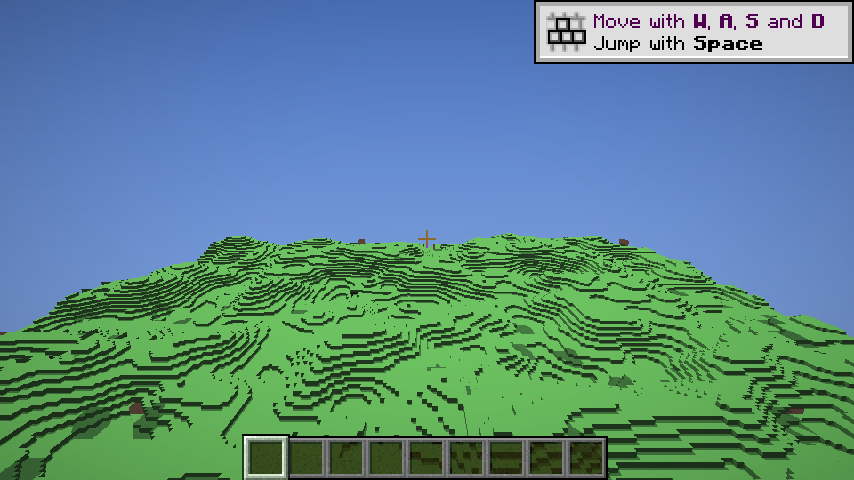
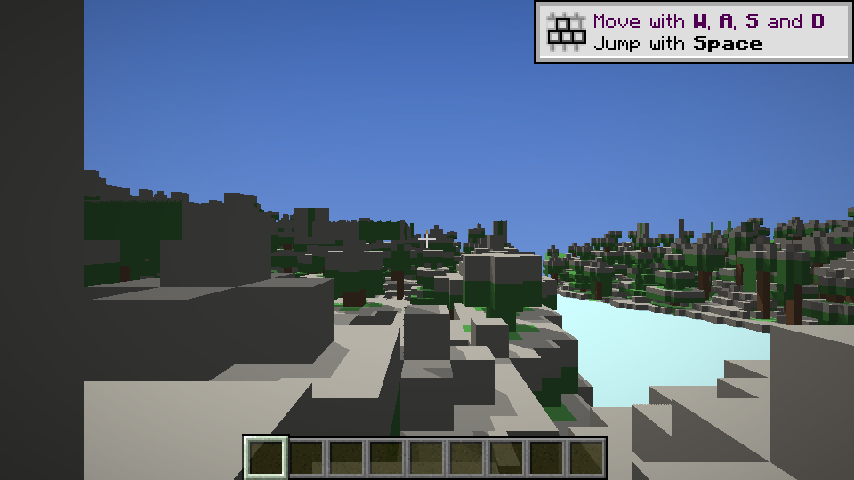
Ray trace real client chunks with the player camera

diff --git a/mod/src/client/java/dev/bricktrace/client/rt/BrickTraceWorldCapture.java b/mod/src/client/java/dev/bricktrace/client/rt/BrickTraceWorldCapture.java
@@ -1,0 +1,99 @@
+package dev.bricktrace.client.rt;
+
+import it.unimi.dsi.fastutil.ints.IntArrayList;
+import net.minecraft.client.multiplayer.ClientLevel;
+import net.minecraft.core.registries.BuiltInRegistries;
+import net.minecraft.world.level.block.state.BlockState;
+import net.minecraft.world.level.chunk.ChunkAccess;
+import net.minecraft.world.level.chunk.LevelChunk;
+import net.minecraft.world.level.chunk.LevelChunkSection;
+import net.minecraft.world.level.chunk.status.ChunkStatus;
+
+/** Converts the loaded client chunks around the player into BrickTrace's 16³ section voxel format. */
+public final class BrickTraceWorldCapture {
+    public static final int RADIUS_CHUNKS = 6;
+
+    public record Snapshot(int[] origins, int[] voxels) {
+        public int sectionCount() {
+            return origins.length / 3;
+        }
+    }
+
+    private BrickTraceWorldCapture() {
+    }
+
+    public static Snapshot capture(ClientLevel level, int centerChunkX, int centerChunkZ) {
+        final IntArrayList origins = new IntArrayList();
+        final IntArrayList voxels = new IntArrayList();
+        final int minSectionY = level.getMinSectionY();
+
+        for (int cz = centerChunkZ - RADIUS_CHUNKS; cz <= centerChunkZ + RADIUS_CHUNKS; ++cz) {
+            for (int cx = centerChunkX - RADIUS_CHUNKS; cx <= centerChunkX + RADIUS_CHUNKS; ++cx) {
+                final ChunkAccess access = level.getChunkSource()
+                        .getChunk(cx, cz, ChunkStatus.FULL, false);
+                if (!(access instanceof LevelChunk chunk)) {
+                    continue;
+                }
+
+                final LevelChunkSection[] sections = chunk.getSections();
+                for (int index = 0; index < sections.length; ++index) {
+                    final LevelChunkSection section = sections[index];
+                    if (section == null || section.hasOnlyAir()) {
+                        continue;
+                    }
+
+                    origins.add(cx * 16);
+                    origins.add((minSectionY + index) * 16);
+                    origins.add(cz * 16);
+
+                    for (int y = 0; y < 16; ++y) {
+                        for (int z = 0; z < 16; ++z) {
+                            for (int x = 0; x < 16; ++x) {
+                                voxels.add(encode(section.getBlockState(x, y, z)));
+                            }
+                        }
+                    }
+                }
+            }
+        }
+
+        return new Snapshot(origins.toIntArray(), voxels.toIntArray());
+    }
+
+    private static int encode(BlockState state) {
+        if (state.isAir()) {
+            return 0;
+        }
+
+        final String path = BuiltInRegistries.BLOCK.getKey(state.getBlock()).getPath();
+        final int material;
+        if (path.contains("water")) {
+            material = 4;
+        } else if (path.contains("grass_block") || path.equals("grass")) {
+            material = 3;
+        } else if (path.contains("dirt") || path.contains("podzol") || path.contains("mud")
+                || path.contains("farmland")) {
+            material = 2;
+        } else if (path.contains("leaves")) {
+            material = 6;
+        } else if (path.contains("log") || path.contains("wood") || path.contains("planks")) {
+            material = 7;
+        } else if (path.contains("stone") || path.contains("deepslate") || path.contains("andesite")
+                || path.contains("granite") || path.contains("diorite") || path.contains("tuff")
+                || path.contains("calcite") || path.contains("cobble") || path.contains("ore")
+                || path.contains("gravel") || path.contains("sand")) {
+            material = 1;
+        } else if (path.contains("glass") || path.contains("ice")) {
+            material = 8;
+        } else {
+            material = 5;
+        }
+
+        final int skyLight = 15;
+        int voxel = material | (skyLight << 20);
+        if (material != 4 && material != 8 && material != 6) {
+            voxel |= 1 << 24;
+        }
+        return voxel;
+    }
+}

diff --git a/mod/src/client/java/dev/bricktrace/client/rt/BrickTraceRtView.java b/mod/src/client/java/dev/bricktrace/client/rt/BrickTraceRtView.java
@@ -25,6 +25,7 @@ public final class BrickTraceRtView implements AutoCloseable {
     private boolean ready;
     private boolean failed;
     private boolean loggedCenterPixel;
+    private boolean worldUploaded;
 
     public boolean initialize() {
         if (ready || failed) {
@@ -40,11 +41,6 @@ public final class BrickTraceRtView implements AutoCloseable {
             failed = true;
             return false;
         }
-        if (!NativeBridge.nativeUploadDemoWorld(handle)) {
-            BrickTraceMod.LOGGER.error("BrickTrace: world upload failed");
-            failed = true;
-            return false;
-        }
 
         image = new NativeImage(WIDTH, HEIGHT, true);
         texture = new DynamicTexture(() -> "bricktrace-rt", image);
@@ -53,6 +49,26 @@ public final class BrickTraceRtView implements AutoCloseable {
         ready = true;
         BrickTraceMod.LOGGER.info("BrickTrace: RT view ready ({}x{})", WIDTH, HEIGHT);
         return true;
+    }
+
+    /** Captures the loaded chunks around the player once and uploads them to the renderer. */
+    public void ensureWorld(net.minecraft.client.multiplayer.ClientLevel level, int chunkX,
+                            int chunkZ) {
+        if (!ready || worldUploaded) {
+            return;
+        }
+        final BrickTraceWorldCapture.Snapshot snapshot =
+                BrickTraceWorldCapture.capture(level, chunkX, chunkZ);
+        if (snapshot.sectionCount() > 0
+                && NativeBridge.nativeUploadWorld(handle, snapshot.origins(), snapshot.voxels())) {
+            worldUploaded = true;
+            BrickTraceMod.LOGGER.info("BrickTrace: uploaded {} real sections from the client world",
+                    snapshot.sectionCount());
+            return;
+        }
+        worldUploaded = NativeBridge.nativeUploadDemoWorld(handle);
+        BrickTraceMod.LOGGER.warn("BrickTrace: no real sections captured, using demo world ({})",
+                worldUploaded);
     }
 
     /** Renders one ray traced frame. Called once per client frame while a world is loaded. */

diff --git a/native/src/jni/bricktrace_jni.cpp b/native/src/jni/bricktrace_jni.cpp
@@ -144,6 +144,38 @@ JNIEXPORT jboolean JNICALL Java_dev_bricktrace_nativebridge_NativeBridge_nativeR
     return renderer.savePng(path) ? JNI_TRUE : JNI_FALSE;
 }
 
+JNIEXPORT jboolean JNICALL Java_dev_bricktrace_nativebridge_NativeBridge_nativeUploadWorld(
+    JNIEnv* env, jclass, jlong handle, jintArray origins, jintArray voxels) {
+    auto* renderer = reinterpret_cast<bt::RtRenderer*>(handle);
+    if (renderer == nullptr || origins == nullptr || voxels == nullptr) return JNI_FALSE;
+
+    const jsize originCount = env->GetArrayLength(origins);
+    const jsize voxelCount = env->GetArrayLength(voxels);
+    const jsize sectionCount = originCount / 3;
+    if (sectionCount == 0 || voxelCount < sectionCount * bt::kVoxelsPerSection) {
+        return JNI_FALSE;
+    }
+
+    auto* originData = env->GetIntArrayElements(origins, nullptr);
+    auto* voxelData = env->GetIntArrayElements(voxels, nullptr);
+
+    bt::WorldData world;
+    world.sections.resize(static_cast<size_t>(sectionCount));
+    for (jsize i = 0; i < sectionCount; ++i) {
+        bt::SectionData& section = world.sections[static_cast<size_t>(i)];
+        section.origin[0] = originData[i * 3 + 0];
+        section.origin[1] = originData[i * 3 + 1];
+        section.origin[2] = originData[i * 3 + 2];
+        std::memcpy(section.voxels, voxelData + static_cast<size_t>(i) * bt::kVoxelsPerSection,
+                    sizeof(section.voxels));
+    }
+
+    const bool ok = renderer->uploadWorld(world);
+    env->ReleaseIntArrayElements(origins, originData, JNI_ABORT);
+    env->ReleaseIntArrayElements(voxels, voxelData, JNI_ABORT);
+    return ok ? JNI_TRUE : JNI_FALSE;
+}
+
 JNIEXPORT jlong JNICALL Java_dev_bricktrace_nativebridge_NativeBridge_nativeCreateRenderer(
     JNIEnv* env, jclass, jstring shaderDir, jint width, jint height) {
     bt::RendererConfig config;

diff --git a/mod/src/client/java/dev/bricktrace/client/BrickTraceClient.java b/mod/src/client/java/dev/bricktrace/client/BrickTraceClient.java
@@ -24,10 +24,21 @@ public final class BrickTraceClient implements ClientModInitializer {
         final BrickTraceRtView view = new BrickTraceRtView();
         HudElementRegistry.addFirst(RT_LAYER, (graphics, deltaTracker) -> {
             final Minecraft minecraft = Minecraft.getInstance();
-            if (minecraft.level == null || !view.initialize()) {
+            if (minecraft.level == null || minecraft.player == null || !view.initialize()) {
                 return;
             }
-            view.render(new BrickTraceRtView.CameraPose(128.0f, 96.0f, 40.0f, 0.0f, -0.22f, 70.0f));
+            view.ensureWorld(minecraft.level,
+                    minecraft.player.chunkPosition().getMinBlockX() >> 4,
+                    minecraft.player.chunkPosition().getMinBlockZ() >> 4);
+
+            final net.minecraft.client.Camera camera = minecraft.gameRenderer.mainCamera();
+            if (camera == null || !camera.isInitialized()) {
+                return;
+            }
+            final net.minecraft.world.phys.Vec3 position = camera.position();
+            view.render(new BrickTraceRtView.CameraPose((float) position.x, (float) position.y,
+                    (float) position.z, (float) Math.toRadians(-camera.yRot()),
+                    (float) Math.toRadians(-camera.xRot()), camera.getFov()));
             view.draw(graphics);
         });
 

diff --git a/mod/src/main/java/dev/bricktrace/nativebridge/NativeBridge.java b/mod/src/main/java/dev/bricktrace/nativebridge/NativeBridge.java
@@ -88,6 +88,8 @@ public final class NativeBridge {
 
     public static native long nativeCreateRenderer(String shaderDir, int width, int height);
 
+    public static native boolean nativeUploadWorld(long handle, int[] origins, int[] voxels);
+
     public static native boolean nativeUploadDemoWorld(long handle);
 
     public static native boolean nativeRenderFrame(long handle, float x, float y, float z,

diff --git a/docs/report-01.md b/docs/report-01.md
@@ -144,6 +144,23 @@ BrickTrace RT frame on Minecraft's VkDevice -> ...\bricktrace_game_device_frame.
 
 ---
 
+## 4.7 真实区块接入
+
+`BrickTraceWorldCapture` 在玩家进入世界时读取周围 13×13 个区块的 `LevelChunkSection`（每 section 4096 个体素），把 block state 编码成 material / 光照位，整体上传给 native：
+
+```
+BrickTrace: uploaded 1571 real sections from the client world
+BrickTrace: RT center pixel rgba=(52, 52, 50, 255)
+```
+
+- 1571 个非空 section，上传 + BLAS/TLAS 构建约 1 秒
+- 相机直接取 `Camera.position()` / `xRot()` / `yRot()` / `getFov()`，yaw 取负号匹配渲染器约定
+- 截图：`docs/images/rt-ingame.png`（真实地形、树、水、天空，原版 HUD 叠加）
+
+限制：只在进入世界时快照一次，方块变化不会更新；材质是固定调色板，没有纹理；上屏仍是 CPU 回读。
+
+---
+
 ## 5. 基准（RTX 5060 Laptop，1080p）
 
 | 场景 | 分辨率 | sections / bricks | GPU 帧时间 | FPS | 显存（BLAS+TLAS） |

diff --git a/README.md b/README.md
@@ -8,7 +8,7 @@ Open-source hardware ray tracing for **Minecraft Java Edition 26.3**.
 
 ![BrickTrace 1080p ray traced terrain](docs/images/rt-1080p.png)
 
-> Status: **0.2.0 prototype**. The native Vulkan ray tracer runs on **Minecraft's own VkDevice** (ray tracing extensions are injected into the game's device creation), and the ray traced frame is presented in-game as a full screen layer. World data is still the procedural demo world and the camera is fixed; wiring real chunks and the player camera is next.
+> Status: **0.2.0 prototype**. The native Vulkan ray tracer runs on **Minecraft's own VkDevice**, streams the loaded client chunks into brick voxel data, follows the player camera and presents the ray traced frame in-game as a full screen layer. Block edits do not update the world yet (one snapshot per join), and materials use a small palette instead of textures.
 
 ## Why
 
